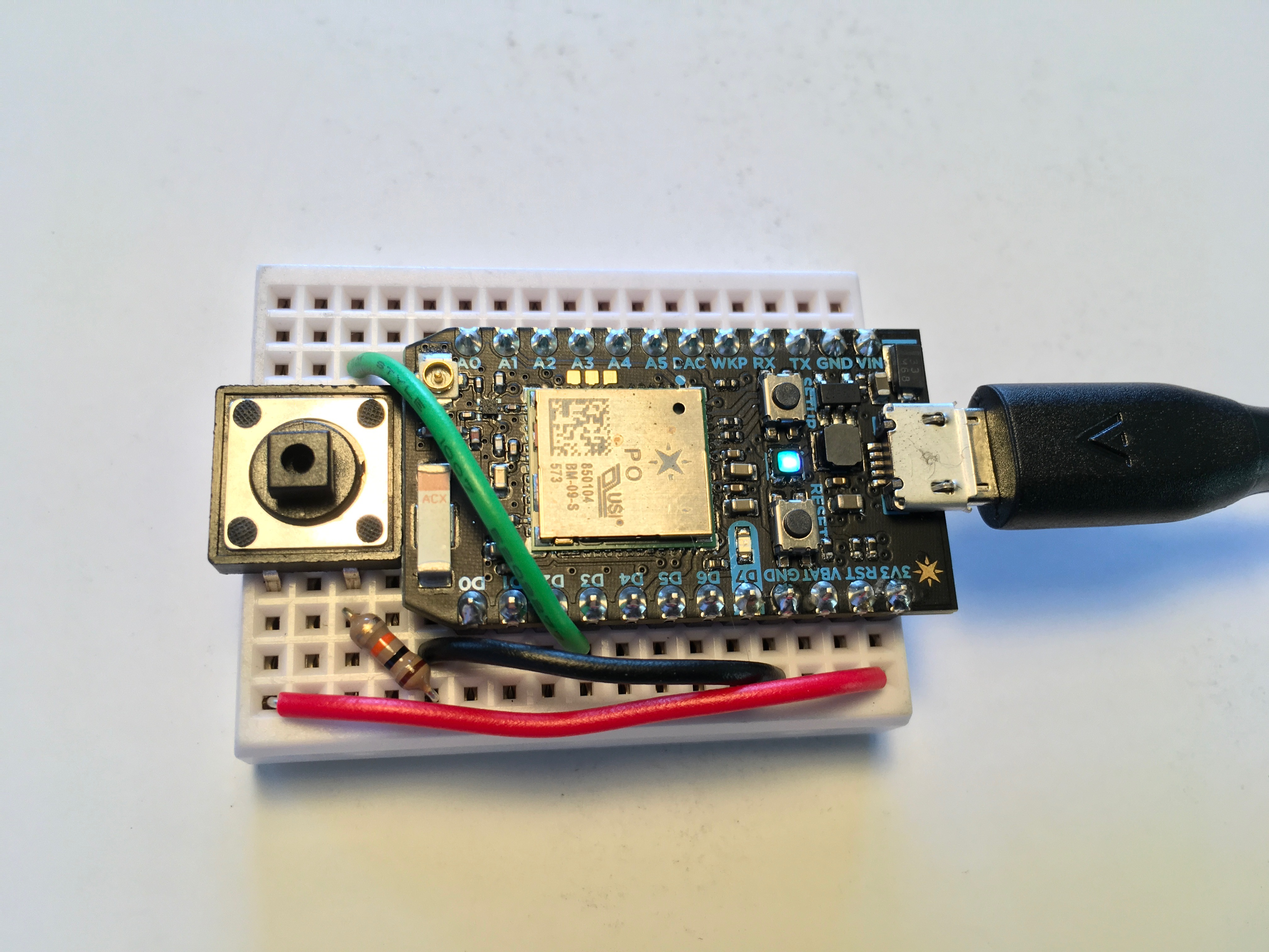
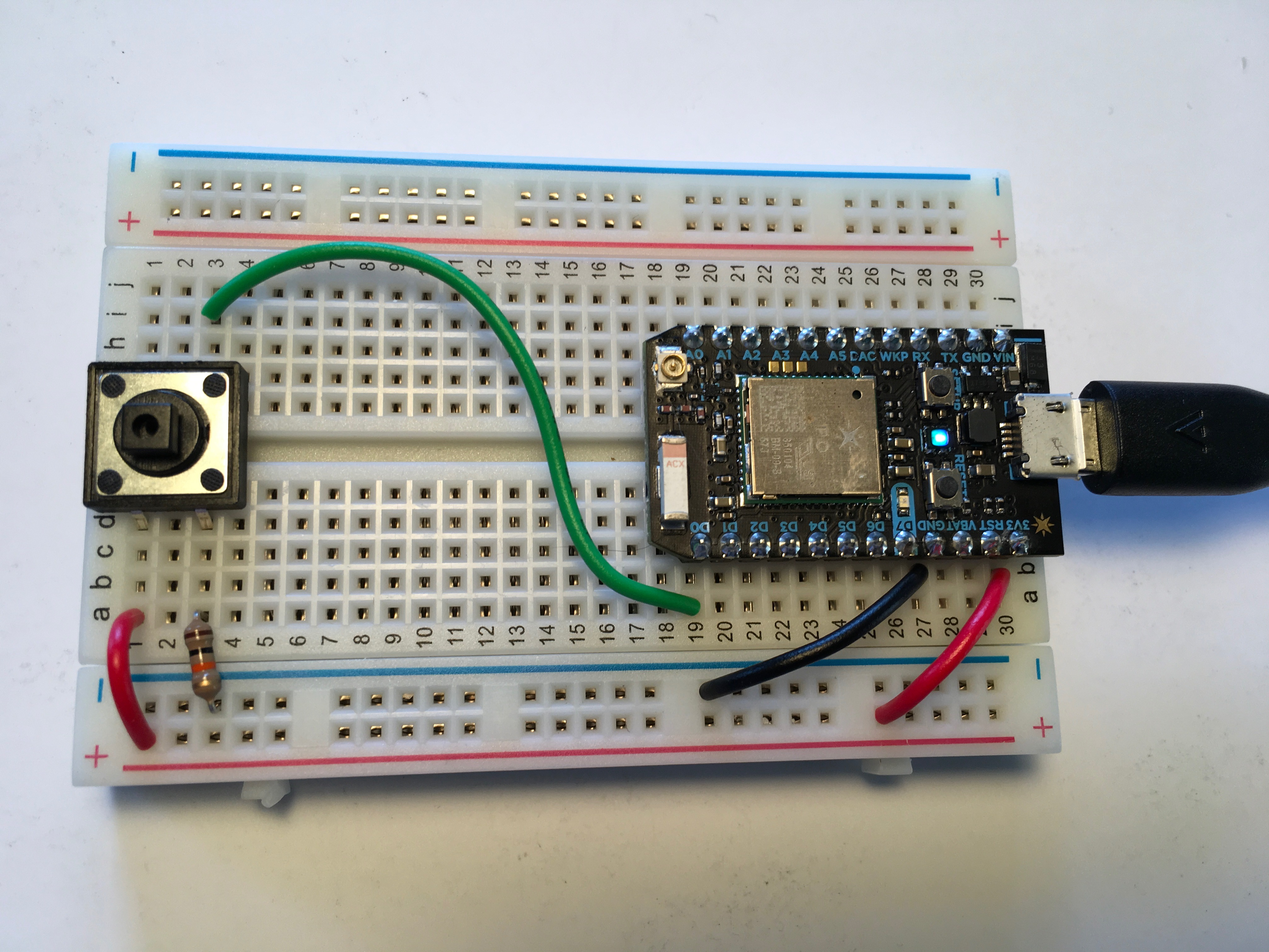
update button

diff --git a/assignments/particle/button.md b/assignments/particle/button.md
@@ -15,7 +15,7 @@
 
 // In this example, we're going to register a Particle.variable() with the cloud so that we can read the status of a button.
 
-int button = D3; // This is the input pin where you read the value of the sensor.
+int button = D0; // This is the input pin where you read the value of the sensor.
 
 int analogvalue; // Here we are declaring the integer variable analogvalue, which we will use later to store the value of the sensor.
 
